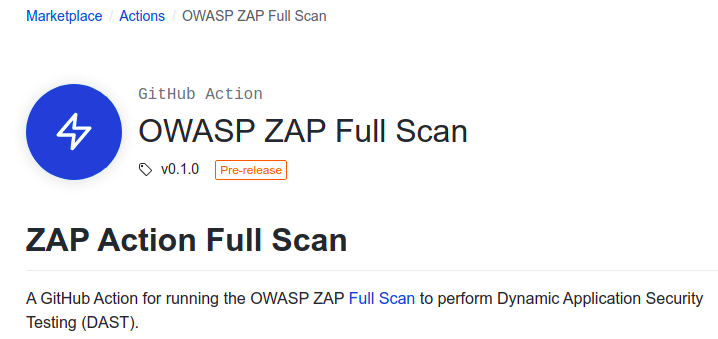
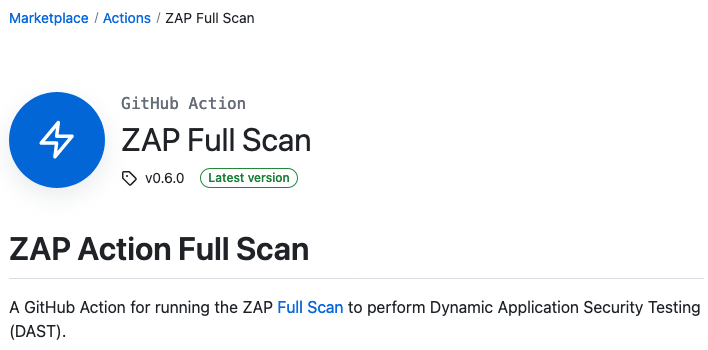
Update ZAP GitHub Actions URLs and images
Link to the new marketplace pages and update the images.

diff --git a/site/content/blog/2020-04-09-automate-security-testing-with-zap-and-github-actions/index.md b/site/content/blog/2020-04-09-automate-security-testing-with-zap-and-github-actions/index.md
@@ -12,7 +12,7 @@ authors:
     - nirojan
 ---
 
-[![zap-action](./images/zap-action.png)](https://github.com/marketplace/actions/owasp-zap-baseline-scan)
+[![zap-action](./images/zap-action.png)](https://github.com/marketplace/actions/zap-baseline-scan)
 
 With the increasing number of web application security breaches, it is essential to keep your web application secure at all times. 
 Furthermore having security integrated into your CI/CD pipeline (DevSecOps) will become a lifesaver if you are actively 
@@ -25,7 +25,7 @@ such as — creating a new issue, pushing a commit, or on a scheduled basis. Thi
 without involving any of your own infrastructures. The ZAP baseline action is available in the GitHub Marketplace under 
 the actions/security category.
 
-The [ZAP baseline-action](https://github.com/marketplace/actions/owasp-zap-baseline-scan) can be configured to periodically 
+The [ZAP baseline-action](https://github.com/marketplace/actions/zap-baseline-scan) can be configured to periodically 
 scan a publicly available web application. Also, ZAP baseline-action can be configured to public and private repositories as well.
 Based on the scan results ZAP will maintain an active issue in GitHub repository. The action will update the issue if it identifies 
 any new or resolved alerts and will close the issue if all the alerts have been resolved. A detailed report is attached to the 
@@ -110,6 +110,6 @@ Also, you can view the scan logs by navigating to the ZAP [scan job](https://git
 
 
 We are excited to hear your thoughts and feedback for the new ZAP Baseline Action. If you find the action useful please star the action.
-Also, checkout our [ZAP full scan action](https://github.com/marketplace/actions/owasp-zap-full-scan) on how to perform active scanning 
+Also, checkout our [ZAP full scan action](https://github.com/marketplace/actions/zap-full-scan) on how to perform active scanning 
 on your web applications. Reach us through the [user group](https://groups.google.com/forum/#!forum/zaproxy-users) or for any additional 
 enhancements please feel free to create an issue in the [following repository](https://github.com/zaproxy/action-baseline).

diff --git a/site/content/blog/2020-05-15-dynamic-application-security-testing-with-zap-and-github-actions/index.md b/site/content/blog/2020-05-15-dynamic-application-security-testing-with-zap-and-github-actions/index.md
@@ -12,11 +12,11 @@ authors:
     - nirojan
 ---
 
-[![zap-action](./images/zap-action.png)](https://github.com/marketplace/actions/owasp-zap-full-scan)
+[![zap-action](./images/zap-action.png)](https://github.com/marketplace/actions/zap-full-scan)
 
-[ZAP full scan GitHub action](https://github.com/marketplace/actions/owasp-zap-full-scan) provides free dynamic application 
+[ZAP full scan GitHub action](https://github.com/marketplace/actions/zap-full-scan) provides free dynamic application 
 security testing (DAST) of your web applications. DAST is also known as black-box testing, which allows ZAP to identify 
-potential vulnerabilities in your web applications. We previously introduced the [ZAP baseline scan GitHub action](https://github.com/marketplace/actions/owasp-zap-baseline-scan) 
+potential vulnerabilities in your web applications. We previously introduced the [ZAP baseline scan GitHub action](https://github.com/marketplace/actions/zap-baseline-scan) 
 to passively identify potential alerts in a web application. However, unlike the baseline scan, ZAP full scan attacks the web application 
 to find additional vulnerabilities.
 

diff --git a/site/content/docs/docker/about.md b/site/content/docs/docker/about.md
@@ -85,9 +85,9 @@ The `zap_tuned()` [Scan Hook](../scan-hooks/) is called after these changes have
 ### GitHub Actions
 The following GitHub Actions wrap the above packaged scans and also support raising GitHub issues for potential vulnerabilities found:
 
-* [OWASP ZAP Baseline Scan](https://github.com/marketplace/actions/owasp-zap-baseline-scan)
-* [OWASP ZAP Full Scan](https://github.com/marketplace/actions/owasp-zap-full-scan)
-* [OWASP ZAP API Scan](https://github.com/marketplace/actions/owasp-zap-api-scan)
+* [ZAP Baseline Scan](https://github.com/marketplace/actions/zap-baseline-scan)
+* [ZAP Full Scan](https://github.com/marketplace/actions/zap-full-scan)
+* [ZAP API Scan](https://github.com/marketplace/actions/zap-api-scan)
   
 For more details see the blog posts:
 
